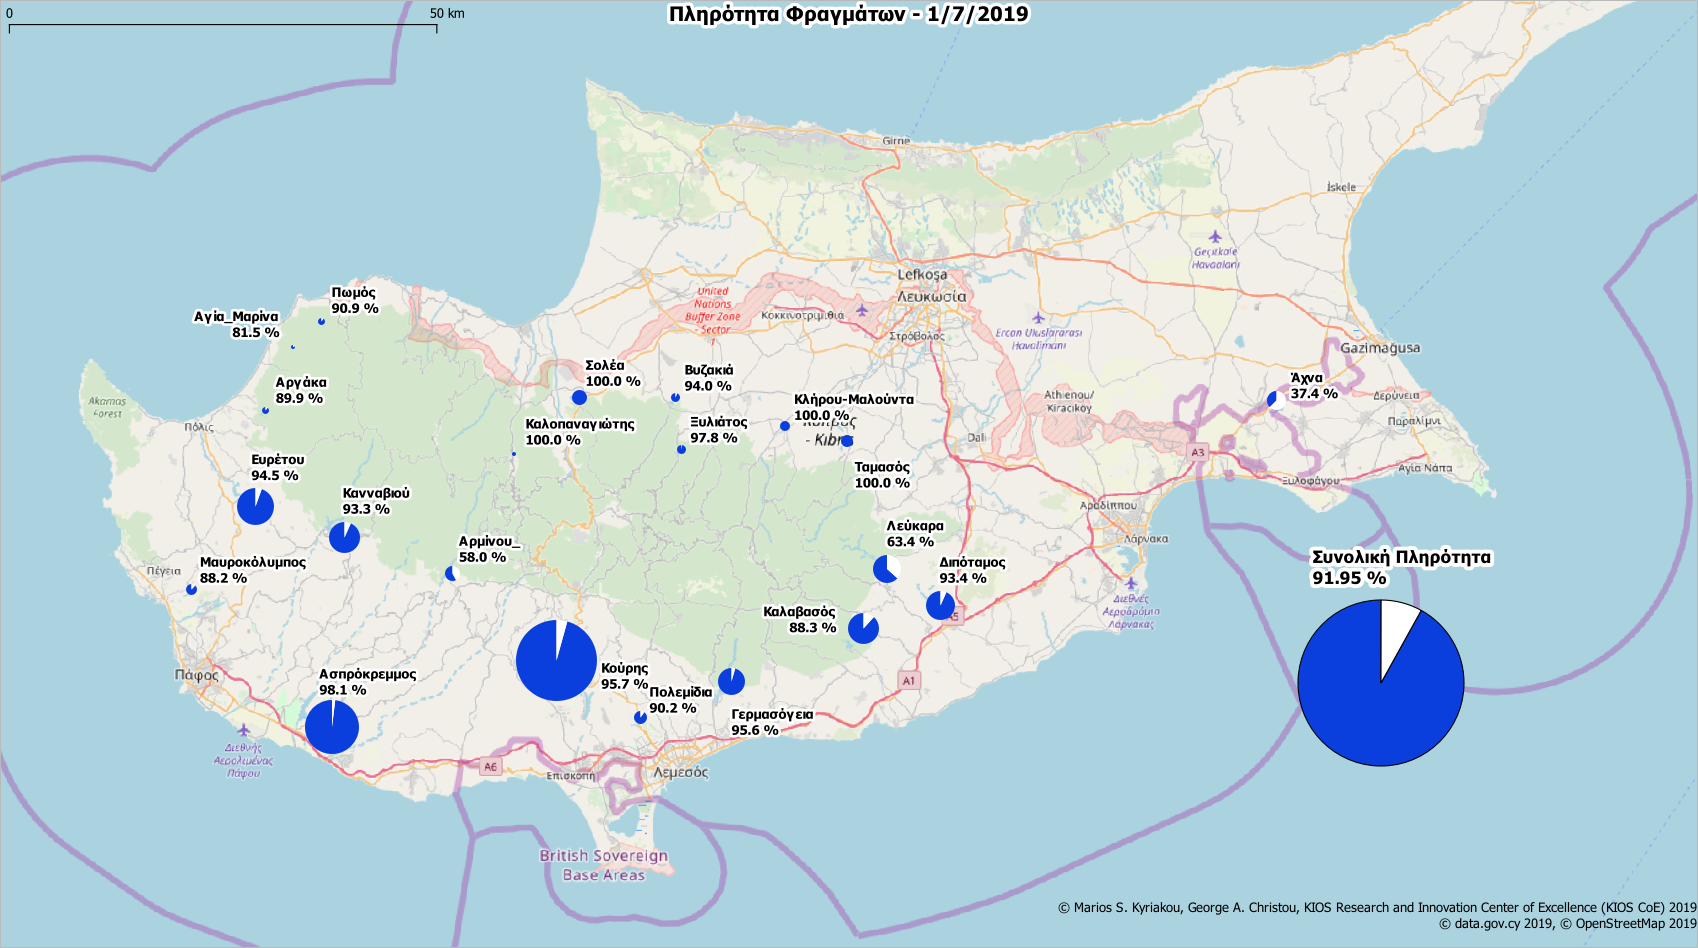
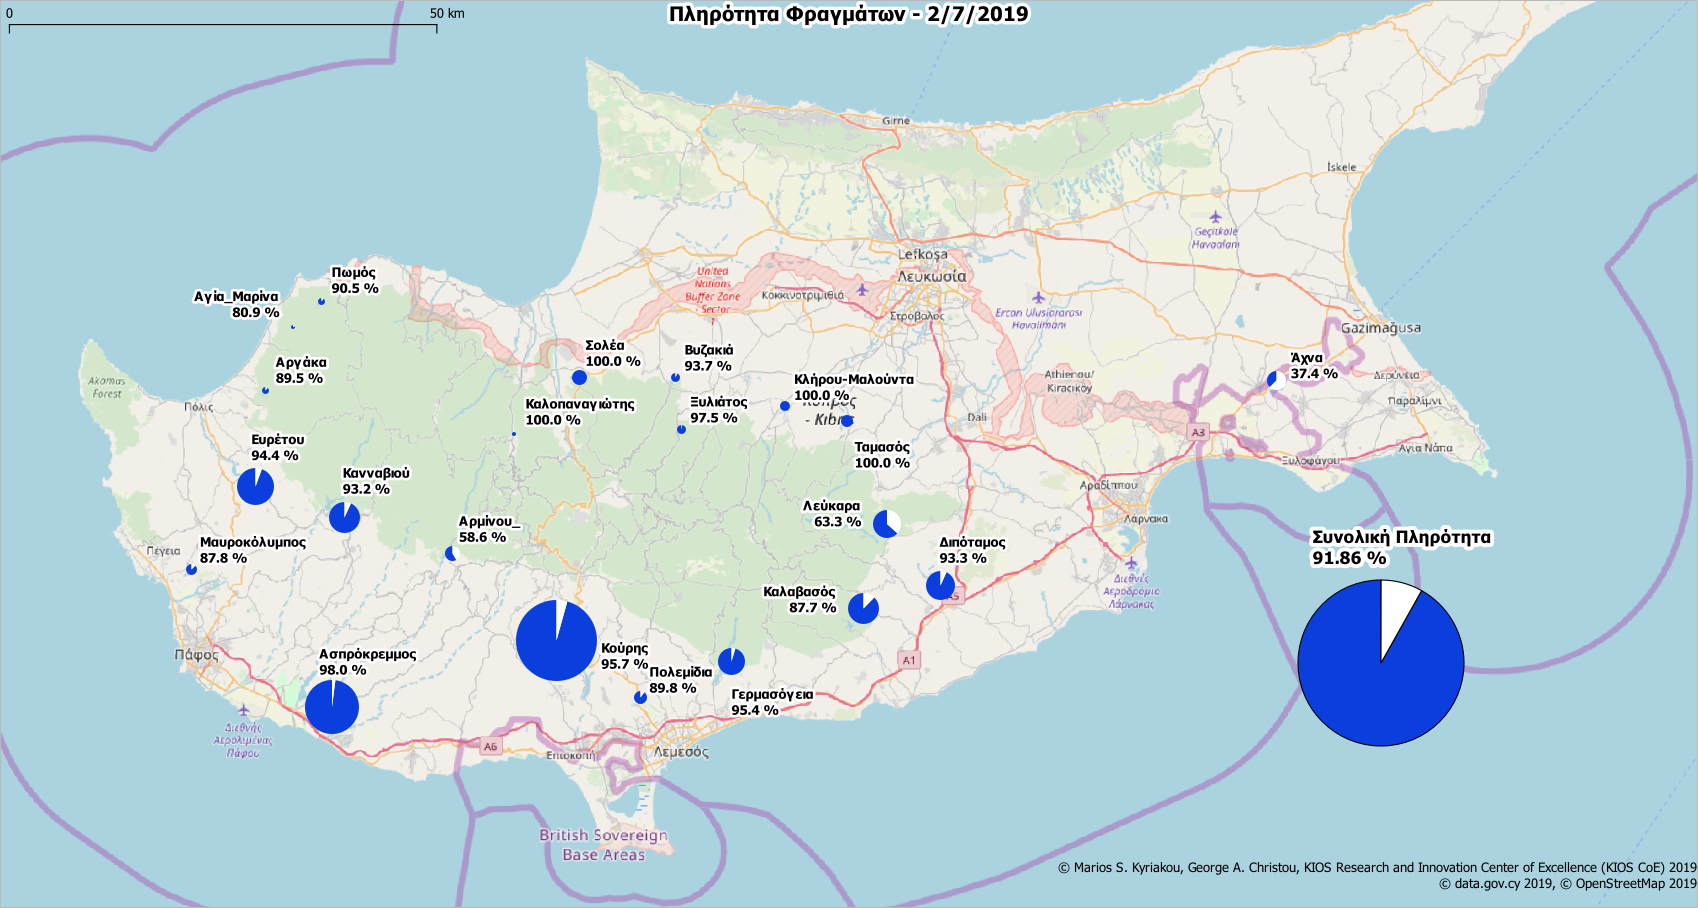
update

diff --git a/dams.html b/dams.html
@@ -11,7 +11,7 @@
          1px  1px 7px WHITE;
     }
     }
-    </style><p><b>Ημερομηνία ανανέωσης δεδομένων: 1/7/2019<p><font color="#0000FF">Η συνολική πληρότητα στα φράγματα είναι 91.95%</font>.<p>Υπάρχουν συνολικά <font color="#0000FF">4</font> φράγματα με πληρότητα <font color="#0000FF">100%</font>.<p>Υπάρχουν <font color="#0000FF">20</font> φράγματα με πληρότητα πάνω από <font color="#0000FF">50%</font>.</b><p><b>Υπάρχουν δεδομένα για 21 φράγματα. Συνολικά υπάρχουν 108 φράγματα. <b><p><p><p>* Ε.Κ.Μ. - Εκατομμύρια Kυβικά  Mέτρα.<table width="444">
+    </style><p><b>Ημερομηνία ανανέωσης δεδομένων: 2/7/2019<p><font color="#0000FF">Η συνολική πληρότητα στα φράγματα είναι 91.86%</font>.<p>Υπάρχουν συνολικά <font color="#0000FF">4</font> φράγματα με πληρότητα <font color="#0000FF">100%</font>.<p>Υπάρχουν <font color="#0000FF">20</font> φράγματα με πληρότητα πάνω από <font color="#0000FF">50%</font>.</b><p><b>Υπάρχουν δεδομένα για 21 φράγματα. Συνολικά υπάρχουν 108 φράγματα. <b><p><p><p>* Ε.Κ.Μ. - Εκατομμύρια Kυβικά  Mέτρα.<table width="444">
     <tbody>
     <tr>
     <th width="2"><b></b></th>
@@ -19,7 +19,7 @@
     <th width="60"><b>Χωρητικότητα (Ε.Κ.Μ.)</b></th>
     <th width="60"><b>Σημερινή (Ε.Κ.Μ.)</b></th>
     <th width="60"><b> Σημερινή Πληρότητα (%)</b></th>
-    </tr><tr><td bgcolor=#1A9641 class=border-white>1</td><td bgcolor=#1A9641 class=border-white>Κούρης</td><td bgcolor=#1A9641 class=border-white>115.0</td><td bgcolor=#1A9641 class=border-white>110.009</td><td bgcolor=#1A9641 class=border-white>95.7</td></tr><tr><tr><td bgcolor=#1A9641 class=border-white>2</td><td bgcolor=#1A9641 class=border-white>Ασπρόκρεμμος</td><td bgcolor=#1A9641 class=border-white>52.375</td><td bgcolor=#1A9641 class=border-white>51.392</td><td bgcolor=#1A9641 class=border-white>98.1</td></tr><tr><tr><td bgcolor=#1A9641 class=border-white>3</td><td bgcolor=#1A9641 class=border-white>Ευρέτου</td><td bgcolor=#1A9641 class=border-white>24.0</td><td bgcolor=#1A9641 class=border-white>22.679</td><td bgcolor=#1A9641 class=border-white>94.5</td></tr><tr><tr><td bgcolor=#1A9641 class=border-white>4</td><td bgcolor=#1A9641 class=border-white>Κανναβιού</td><td bgcolor=#1A9641 class=border-white>17.168</td><td bgcolor=#1A9641 class=border-white>16.01</td><td bgcolor=#1A9641 class=border-white>93.3</td></tr><tr><tr><td bgcolor=#48AC4E class=border-white>5</td><td bgcolor=#48AC4E class=border-white>Καλαβασός</td><td bgcolor=#48AC4E class=border-white>17.1</td><td bgcolor=#48AC4E class=border-white>15.094</td><td bgcolor=#48AC4E class=border-white>88.3</td></tr><tr><tr><td bgcolor=#1A9641 class=border-white>6</td><td bgcolor=#1A9641 class=border-white>Διπόταμος</td><td bgcolor=#1A9641 class=border-white>15.5</td><td bgcolor=#1A9641 class=border-white>14.484</td><td bgcolor=#1A9641 class=border-white>93.4</td></tr><tr><tr><td bgcolor=#A6D96A class=border-white>7</td><td bgcolor=#A6D96A class=border-white>Λεύκαρα</td><td bgcolor=#A6D96A class=border-white>13.85</td><td bgcolor=#A6D96A class=border-white>8.778</td><td bgcolor=#A6D96A class=border-white>63.4</td></tr><tr><tr><td bgcolor=#1A9641 class=border-white>8</td><td bgcolor=#1A9641 class=border-white>Γερμασόγεια</td><td bgcolor=#1A9641 class=border-white>13.5</td><td bgcolor=#1A9641 class=border-white>12.911999999999999</td><td bgcolor=#1A9641 class=border-white>95.6</td></tr><tr><tr><td bgcolor=#FED690 class=border-white>9</td><td bgcolor=#FED690 class=border-white>Άχνα</td><td bgcolor=#FED690 class=border-white>6.8</td><td bgcolor=#FED690 class=border-white>2.54</td><td bgcolor=#FED690 class=border-white>37.4</td></tr><tr><tr><td bgcolor=#1A9641 class=border-white>10</td><td bgcolor=#1A9641 class=border-white>Σολέα</td><td bgcolor=#1A9641 class=border-white>4.454</td><td bgcolor=#1A9641 class=border-white>4.454</td><td bgcolor=#1A9641 class=border-white>100.0</td></tr><tr><tr><td bgcolor=#D2EC95 class=border-white>11</td><td bgcolor=#D2EC95 class=border-white>Αρμίνου_</td><td bgcolor=#D2EC95 class=border-white>4.3</td><td bgcolor=#D2EC95 class=border-white>2.493</td><td bgcolor=#D2EC95 class=border-white>58.0</td></tr><tr><tr><td bgcolor=#1A9641 class=border-white>12</td><td bgcolor=#1A9641 class=border-white>Πολεμίδια</td><td bgcolor=#1A9641 class=border-white>3.4</td><td bgcolor=#1A9641 class=border-white>3.066</td><td bgcolor=#1A9641 class=border-white>90.2</td></tr><tr><tr><td bgcolor=#1A9641 class=border-white>13</td><td bgcolor=#1A9641 class=border-white>Ταμασός</td><td bgcolor=#1A9641 class=border-white>2.8</td><td bgcolor=#1A9641 class=border-white>2.8</td><td bgcolor=#1A9641 class=border-white>100.0</td></tr><tr><tr><td bgcolor=#48AC4E class=border-white>14</td><td bgcolor=#48AC4E class=border-white>Μαυροκόλυμπος</td><td bgcolor=#48AC4E class=border-white>2.18</td><td bgcolor=#48AC4E class=border-white>1.922</td><td bgcolor=#48AC4E class=border-white>88.2</td></tr><tr><tr><td bgcolor=#1A9641 class=border-white>15</td><td bgcolor=#1A9641 class=border-white>Κλήρου-Μαλούντα</td><td bgcolor=#1A9641 class=border-white>2.0</td><td bgcolor=#1A9641 class=border-white>2.0</td><td bgcolor=#1A9641 class=border-white>100.0</td></tr><tr><tr><td bgcolor=#1A9641 class=border-white>16</td><td bgcolor=#1A9641 class=border-white>Βυζακιά</td><td bgcolor=#1A9641 class=border-white>1.69</td><td bgcolor=#1A9641 class=border-white>1.589</td><td bgcolor=#1A9641 class=border-white>94.0</td></tr><tr><tr><td bgcolor=#1A9641 class=border-white>17</td><td bgcolor=#1A9641 class=border-white>Ξυλιάτος</td><td bgcolor=#1A9641 class=border-white>1.43</td><td bgcolor=#1A9641 class=border-white>1.398</td><td bgcolor=#1A9641 class=border-white>97.8</td></tr><tr><tr><td bgcolor=#48AC4E class=border-white>18</td><td bgcolor=#48AC4E class=border-white>Αργάκα</td><td bgcolor=#48AC4E class=border-white>0.99</td><td bgcolor=#48AC4E class=border-white>0.89</td><td bgcolor=#48AC4E class=border-white>89.9</td></tr><tr><tr><td bgcolor=#1A9641 class=border-white>19</td><td bgcolor=#1A9641 class=border-white>Πωμός</td><td bgcolor=#1A9641 class=border-white>0.86</td><td bgcolor=#1A9641 class=border-white>0.782</td><td bgcolor=#1A9641 class=border-white>90.9</td></tr><tr><tr><td bgcolor=#1A9641 class=border-white>20</td><td bgcolor=#1A9641 class=border-white>Καλοπαναγιώτης</td><td bgcolor=#1A9641 class=border-white>0.363</td><td bgcolor=#1A9641 class=border-white>0.363</td><td bgcolor=#1A9641 class=border-white>100.0</td></tr><tr><tr><td bgcolor=#48AC4E class=border-white>21</td><td bgcolor=#48AC4E class=border-white>Αγία_Μαρίνα</td><td bgcolor=#48AC4E class=border-white>0.298</td><td bgcolor=#48AC4E class=border-white>0.243</td><td bgcolor=#48AC4E class=border-white>81.5</td></tr><tr>
+    </tr><tr><td bgcolor=#1A9641 class=border-white>1</td><td bgcolor=#1A9641 class=border-white>Κούρης</td><td bgcolor=#1A9641 class=border-white>115.0</td><td bgcolor=#1A9641 class=border-white>110.009</td><td bgcolor=#1A9641 class=border-white>95.7</td></tr><tr><tr><td bgcolor=#1A9641 class=border-white>2</td><td bgcolor=#1A9641 class=border-white>Ασπρόκρεμμος</td><td bgcolor=#1A9641 class=border-white>52.375</td><td bgcolor=#1A9641 class=border-white>51.343</td><td bgcolor=#1A9641 class=border-white>98.0</td></tr><tr><tr><td bgcolor=#1A9641 class=border-white>3</td><td bgcolor=#1A9641 class=border-white>Ευρέτου</td><td bgcolor=#1A9641 class=border-white>24.0</td><td bgcolor=#1A9641 class=border-white>22.656</td><td bgcolor=#1A9641 class=border-white>94.4</td></tr><tr><tr><td bgcolor=#1A9641 class=border-white>4</td><td bgcolor=#1A9641 class=border-white>Κανναβιού</td><td bgcolor=#1A9641 class=border-white>17.168</td><td bgcolor=#1A9641 class=border-white>15.992</td><td bgcolor=#1A9641 class=border-white>93.2</td></tr><tr><tr><td bgcolor=#48AC4E class=border-white>5</td><td bgcolor=#48AC4E class=border-white>Καλαβασός</td><td bgcolor=#48AC4E class=border-white>17.1</td><td bgcolor=#48AC4E class=border-white>14.993</td><td bgcolor=#48AC4E class=border-white>87.7</td></tr><tr><tr><td bgcolor=#1A9641 class=border-white>6</td><td bgcolor=#1A9641 class=border-white>Διπόταμος</td><td bgcolor=#1A9641 class=border-white>15.5</td><td bgcolor=#1A9641 class=border-white>14.465</td><td bgcolor=#1A9641 class=border-white>93.3</td></tr><tr><tr><td bgcolor=#A6D96A class=border-white>7</td><td bgcolor=#A6D96A class=border-white>Λεύκαρα</td><td bgcolor=#A6D96A class=border-white>13.85</td><td bgcolor=#A6D96A class=border-white>8.773</td><td bgcolor=#A6D96A class=border-white>63.3</td></tr><tr><tr><td bgcolor=#1A9641 class=border-white>8</td><td bgcolor=#1A9641 class=border-white>Γερμασόγεια</td><td bgcolor=#1A9641 class=border-white>13.5</td><td bgcolor=#1A9641 class=border-white>12.879999999999999</td><td bgcolor=#1A9641 class=border-white>95.4</td></tr><tr><tr><td bgcolor=#FED690 class=border-white>9</td><td bgcolor=#FED690 class=border-white>Άχνα</td><td bgcolor=#FED690 class=border-white>6.8</td><td bgcolor=#FED690 class=border-white>2.54</td><td bgcolor=#FED690 class=border-white>37.4</td></tr><tr><tr><td bgcolor=#1A9641 class=border-white>10</td><td bgcolor=#1A9641 class=border-white>Σολέα</td><td bgcolor=#1A9641 class=border-white>4.454</td><td bgcolor=#1A9641 class=border-white>4.454</td><td bgcolor=#1A9641 class=border-white>100.0</td></tr><tr><tr><td bgcolor=#D2EC95 class=border-white>11</td><td bgcolor=#D2EC95 class=border-white>Αρμίνου_</td><td bgcolor=#D2EC95 class=border-white>4.3</td><td bgcolor=#D2EC95 class=border-white>2.518</td><td bgcolor=#D2EC95 class=border-white>58.6</td></tr><tr><tr><td bgcolor=#48AC4E class=border-white>12</td><td bgcolor=#48AC4E class=border-white>Πολεμίδια</td><td bgcolor=#48AC4E class=border-white>3.4</td><td bgcolor=#48AC4E class=border-white>3.052</td><td bgcolor=#48AC4E class=border-white>89.8</td></tr><tr><tr><td bgcolor=#1A9641 class=border-white>13</td><td bgcolor=#1A9641 class=border-white>Ταμασός</td><td bgcolor=#1A9641 class=border-white>2.8</td><td bgcolor=#1A9641 class=border-white>2.8</td><td bgcolor=#1A9641 class=border-white>100.0</td></tr><tr><tr><td bgcolor=#48AC4E class=border-white>14</td><td bgcolor=#48AC4E class=border-white>Μαυροκόλυμπος</td><td bgcolor=#48AC4E class=border-white>2.18</td><td bgcolor=#48AC4E class=border-white>1.915</td><td bgcolor=#48AC4E class=border-white>87.8</td></tr><tr><tr><td bgcolor=#1A9641 class=border-white>15</td><td bgcolor=#1A9641 class=border-white>Κλήρου-Μαλούντα</td><td bgcolor=#1A9641 class=border-white>2.0</td><td bgcolor=#1A9641 class=border-white>2.0</td><td bgcolor=#1A9641 class=border-white>100.0</td></tr><tr><tr><td bgcolor=#1A9641 class=border-white>16</td><td bgcolor=#1A9641 class=border-white>Βυζακιά</td><td bgcolor=#1A9641 class=border-white>1.69</td><td bgcolor=#1A9641 class=border-white>1.583</td><td bgcolor=#1A9641 class=border-white>93.7</td></tr><tr><tr><td bgcolor=#1A9641 class=border-white>17</td><td bgcolor=#1A9641 class=border-white>Ξυλιάτος</td><td bgcolor=#1A9641 class=border-white>1.43</td><td bgcolor=#1A9641 class=border-white>1.394</td><td bgcolor=#1A9641 class=border-white>97.5</td></tr><tr><tr><td bgcolor=#48AC4E class=border-white>18</td><td bgcolor=#48AC4E class=border-white>Αργάκα</td><td bgcolor=#48AC4E class=border-white>0.99</td><td bgcolor=#48AC4E class=border-white>0.886</td><td bgcolor=#48AC4E class=border-white>89.5</td></tr><tr><tr><td bgcolor=#1A9641 class=border-white>19</td><td bgcolor=#1A9641 class=border-white>Πωμός</td><td bgcolor=#1A9641 class=border-white>0.86</td><td bgcolor=#1A9641 class=border-white>0.778</td><td bgcolor=#1A9641 class=border-white>90.5</td></tr><tr><tr><td bgcolor=#1A9641 class=border-white>20</td><td bgcolor=#1A9641 class=border-white>Καλοπαναγιώτης</td><td bgcolor=#1A9641 class=border-white>0.363</td><td bgcolor=#1A9641 class=border-white>0.363</td><td bgcolor=#1A9641 class=border-white>100.0</td></tr><tr><tr><td bgcolor=#48AC4E class=border-white>21</td><td bgcolor=#48AC4E class=border-white>Αγία_Μαρίνα</td><td bgcolor=#48AC4E class=border-white>0.298</td><td bgcolor=#48AC4E class=border-white>0.241</td><td bgcolor=#48AC4E class=border-white>80.9</td></tr><tr>
     </tr>
     <tr>
     <td></td>
